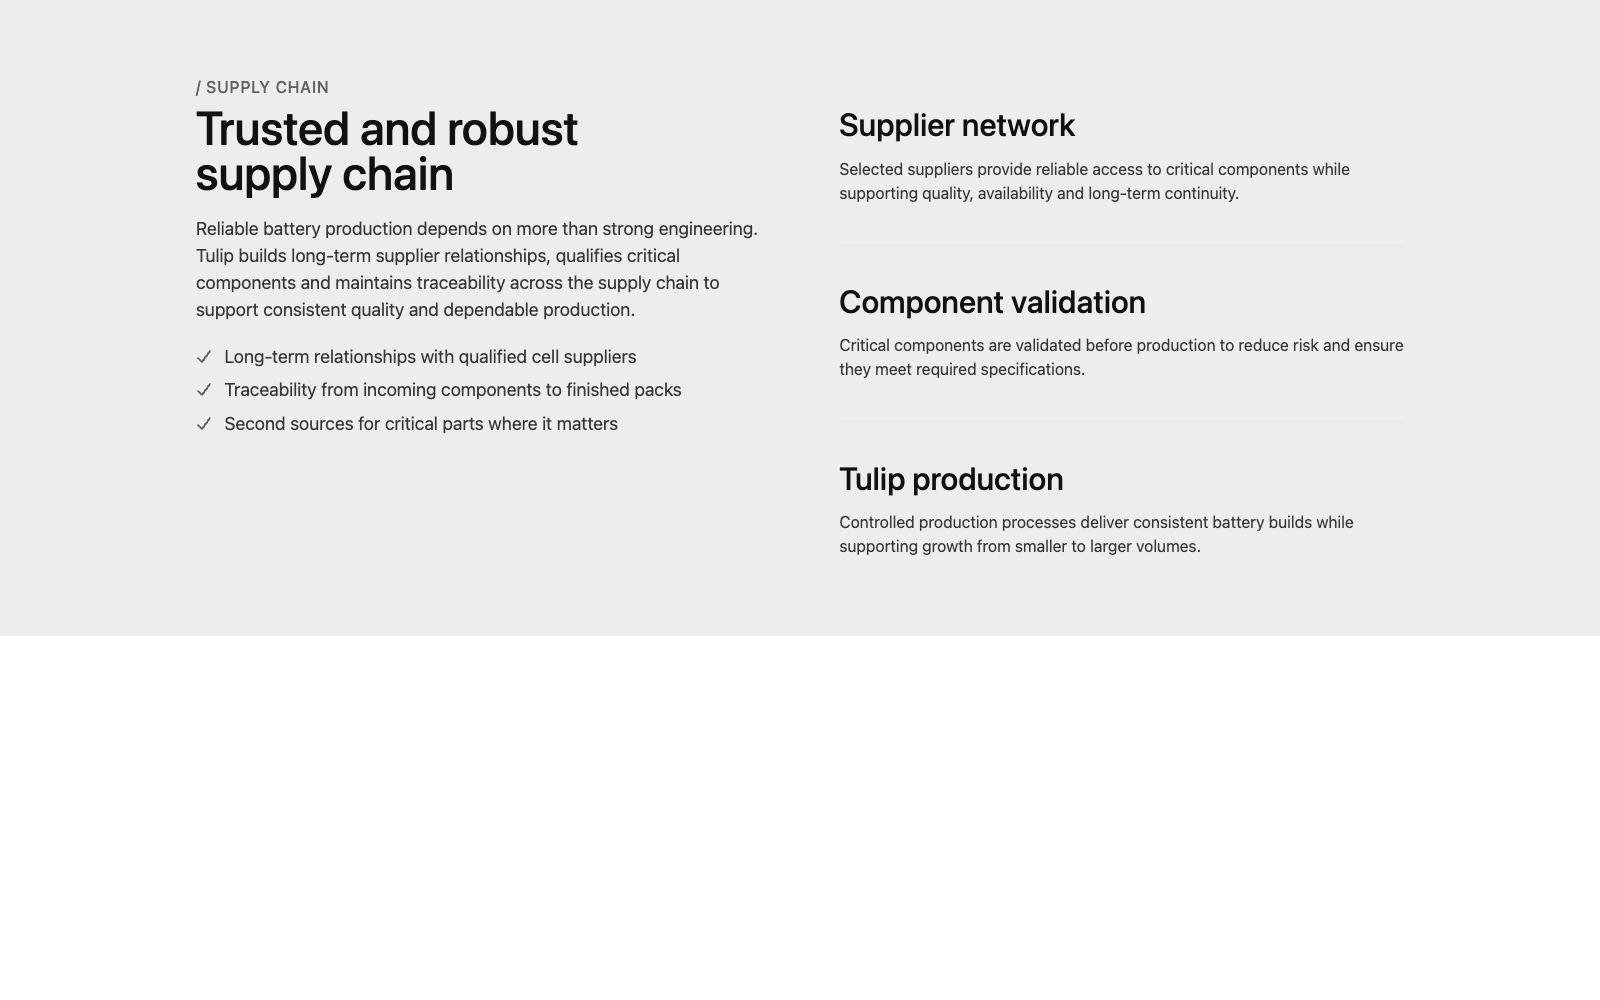
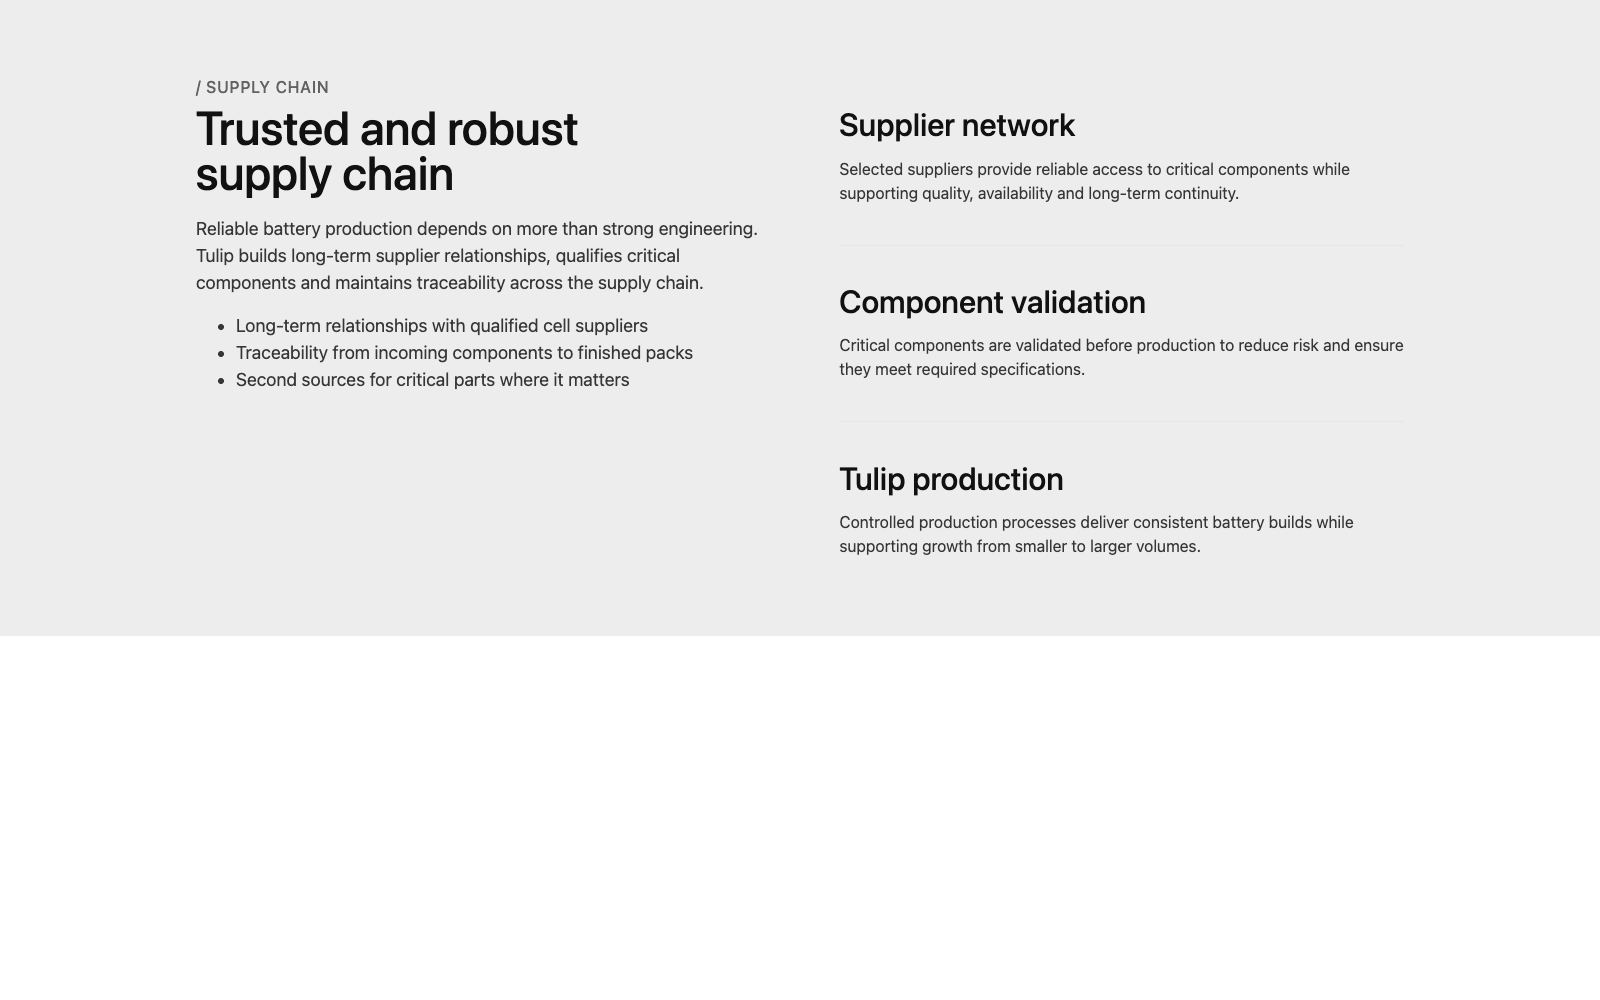
fix: use intro description for checklist content

Changed region(s): [[0.125, 0.31, 0.4375, 0.434]]

diff --git a/src/sections/checklist-feature-list/allentown/checklist-feature-list-allentown.payload.ts b/src/sections/checklist-feature-list/allentown/checklist-feature-list-allentown.payload.ts
@@ -43,20 +43,6 @@ const manifest = {
         }
       }
     },
-    "checklist": {
-      "kind": "componentList",
-      "componentId": "components/checklist-item/allentown",
-      "required": true,
-      "localized": true,
-      "minItems": 1,
-      "fields": {
-        "text": {
-          "kind": "text",
-          "required": true,
-          "localized": true
-        }
-      }
-    },
     "features": {
       "kind": "componentList",
       "componentId": "components/feature-item/allentown",
